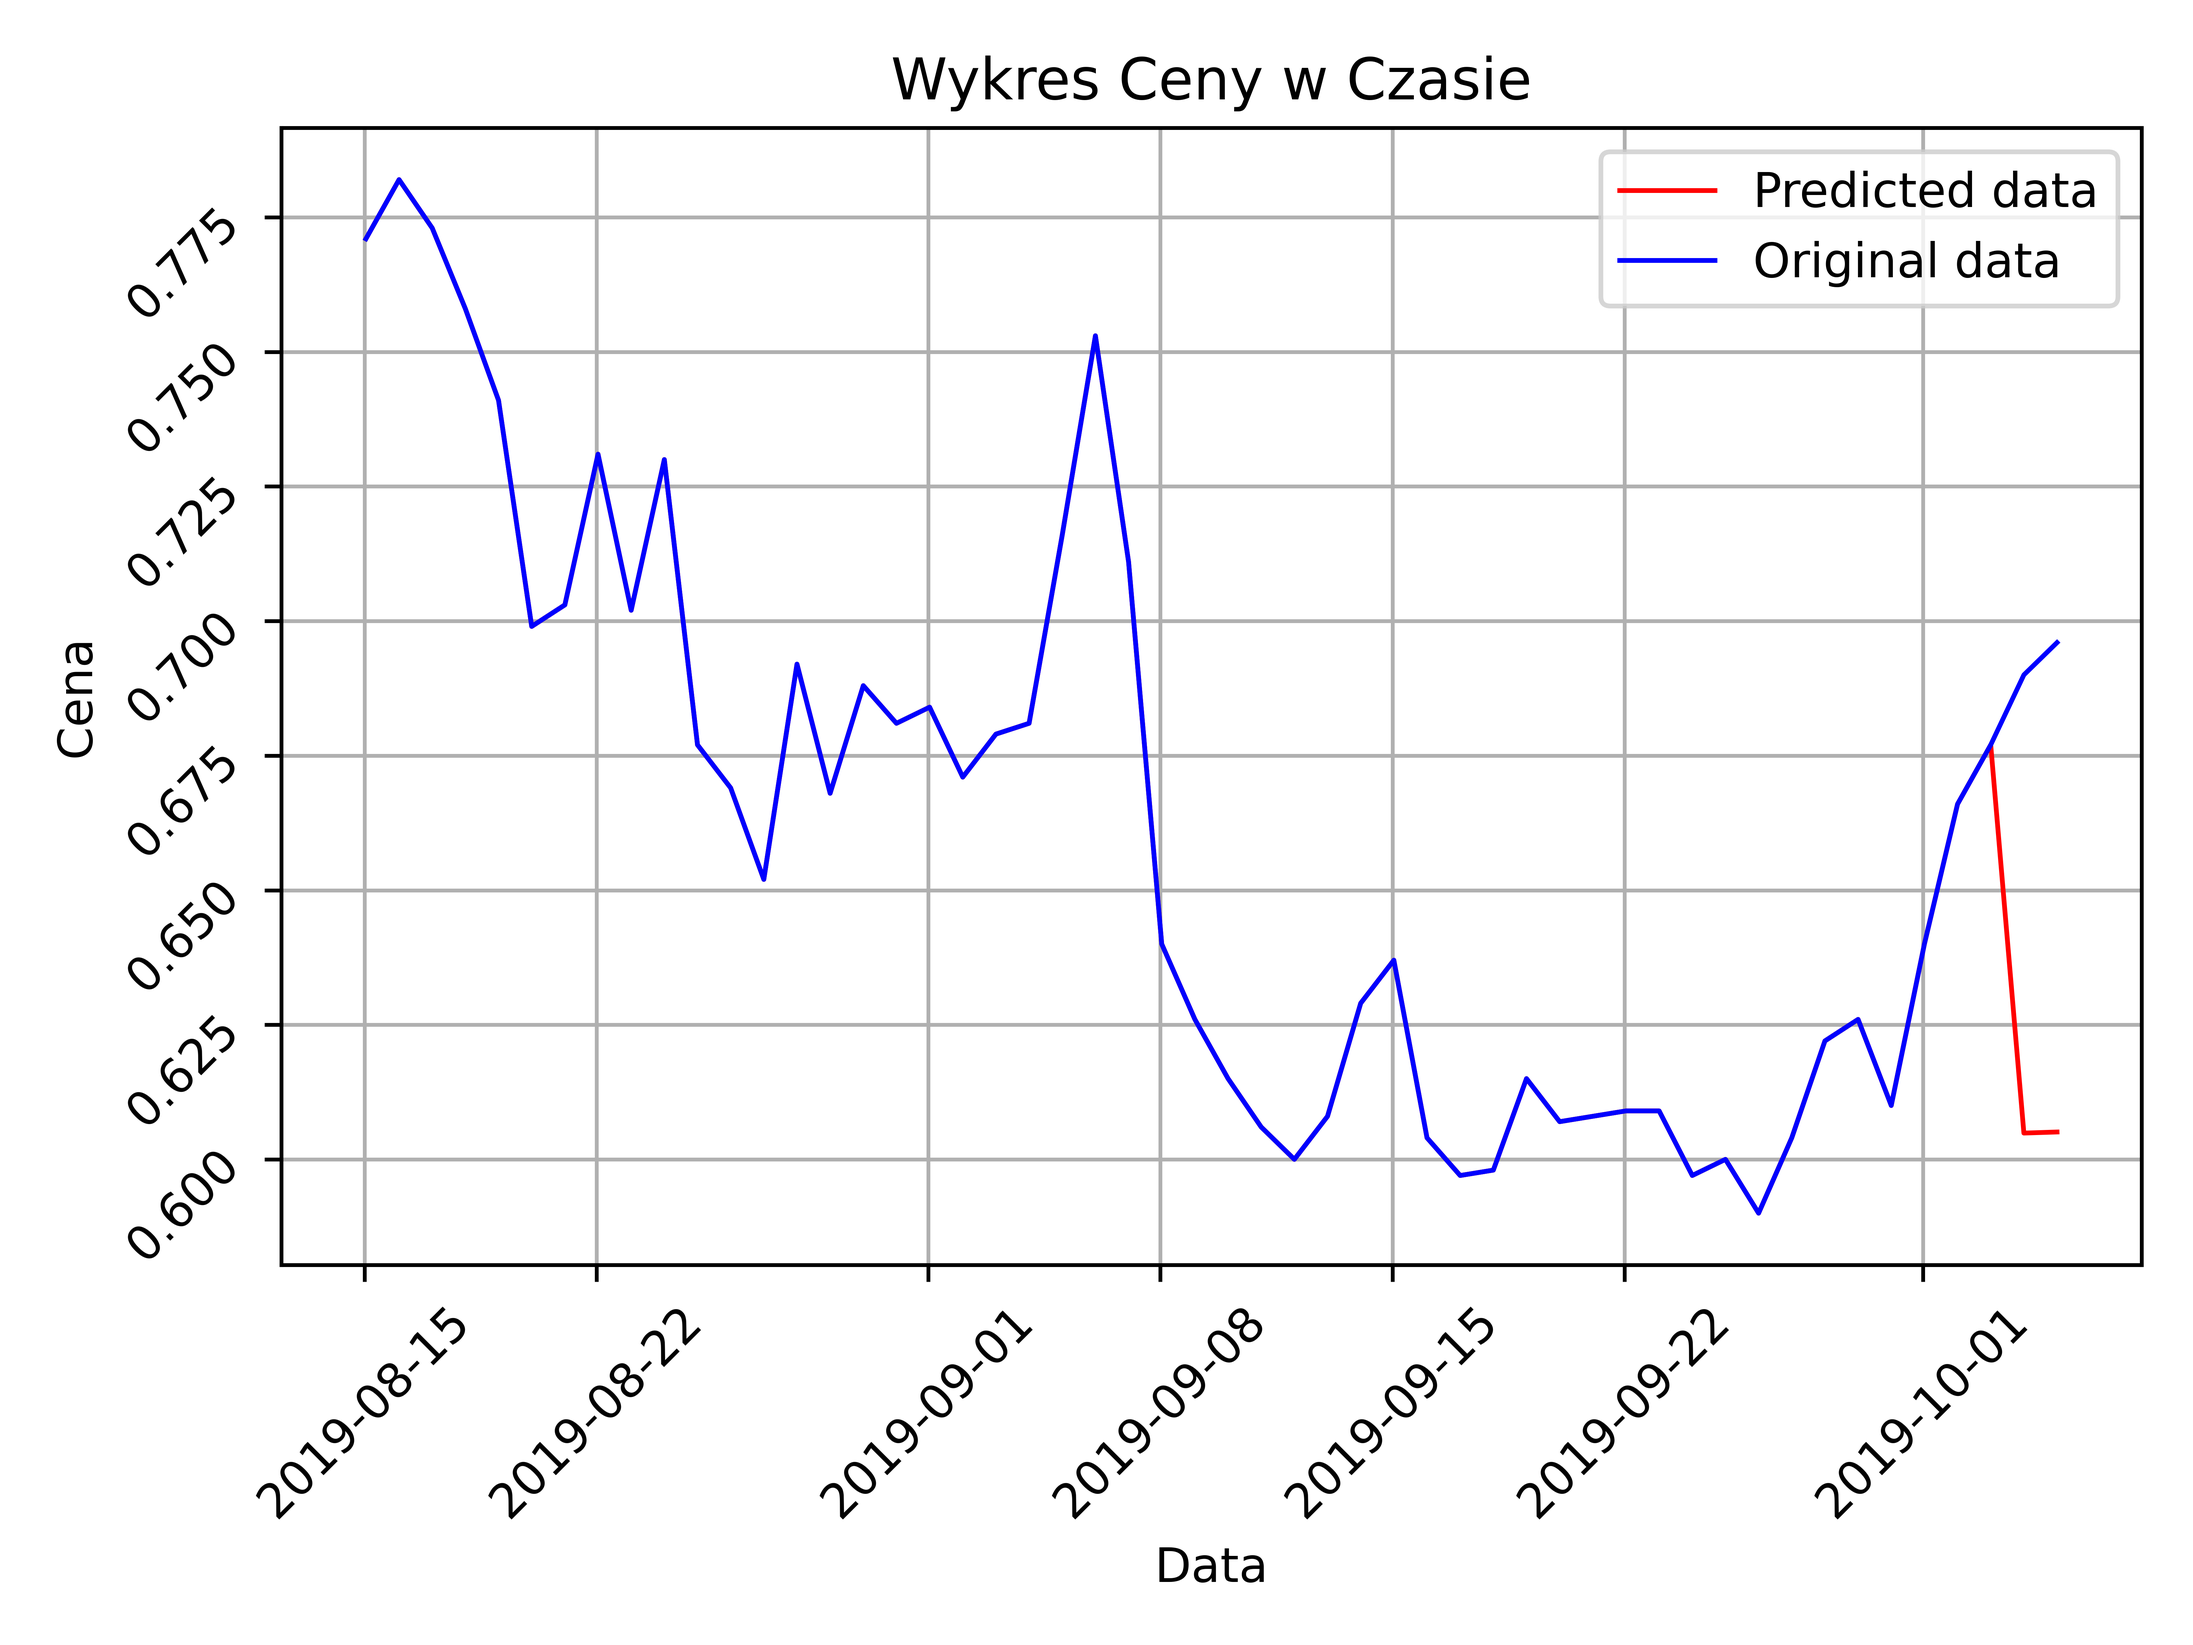
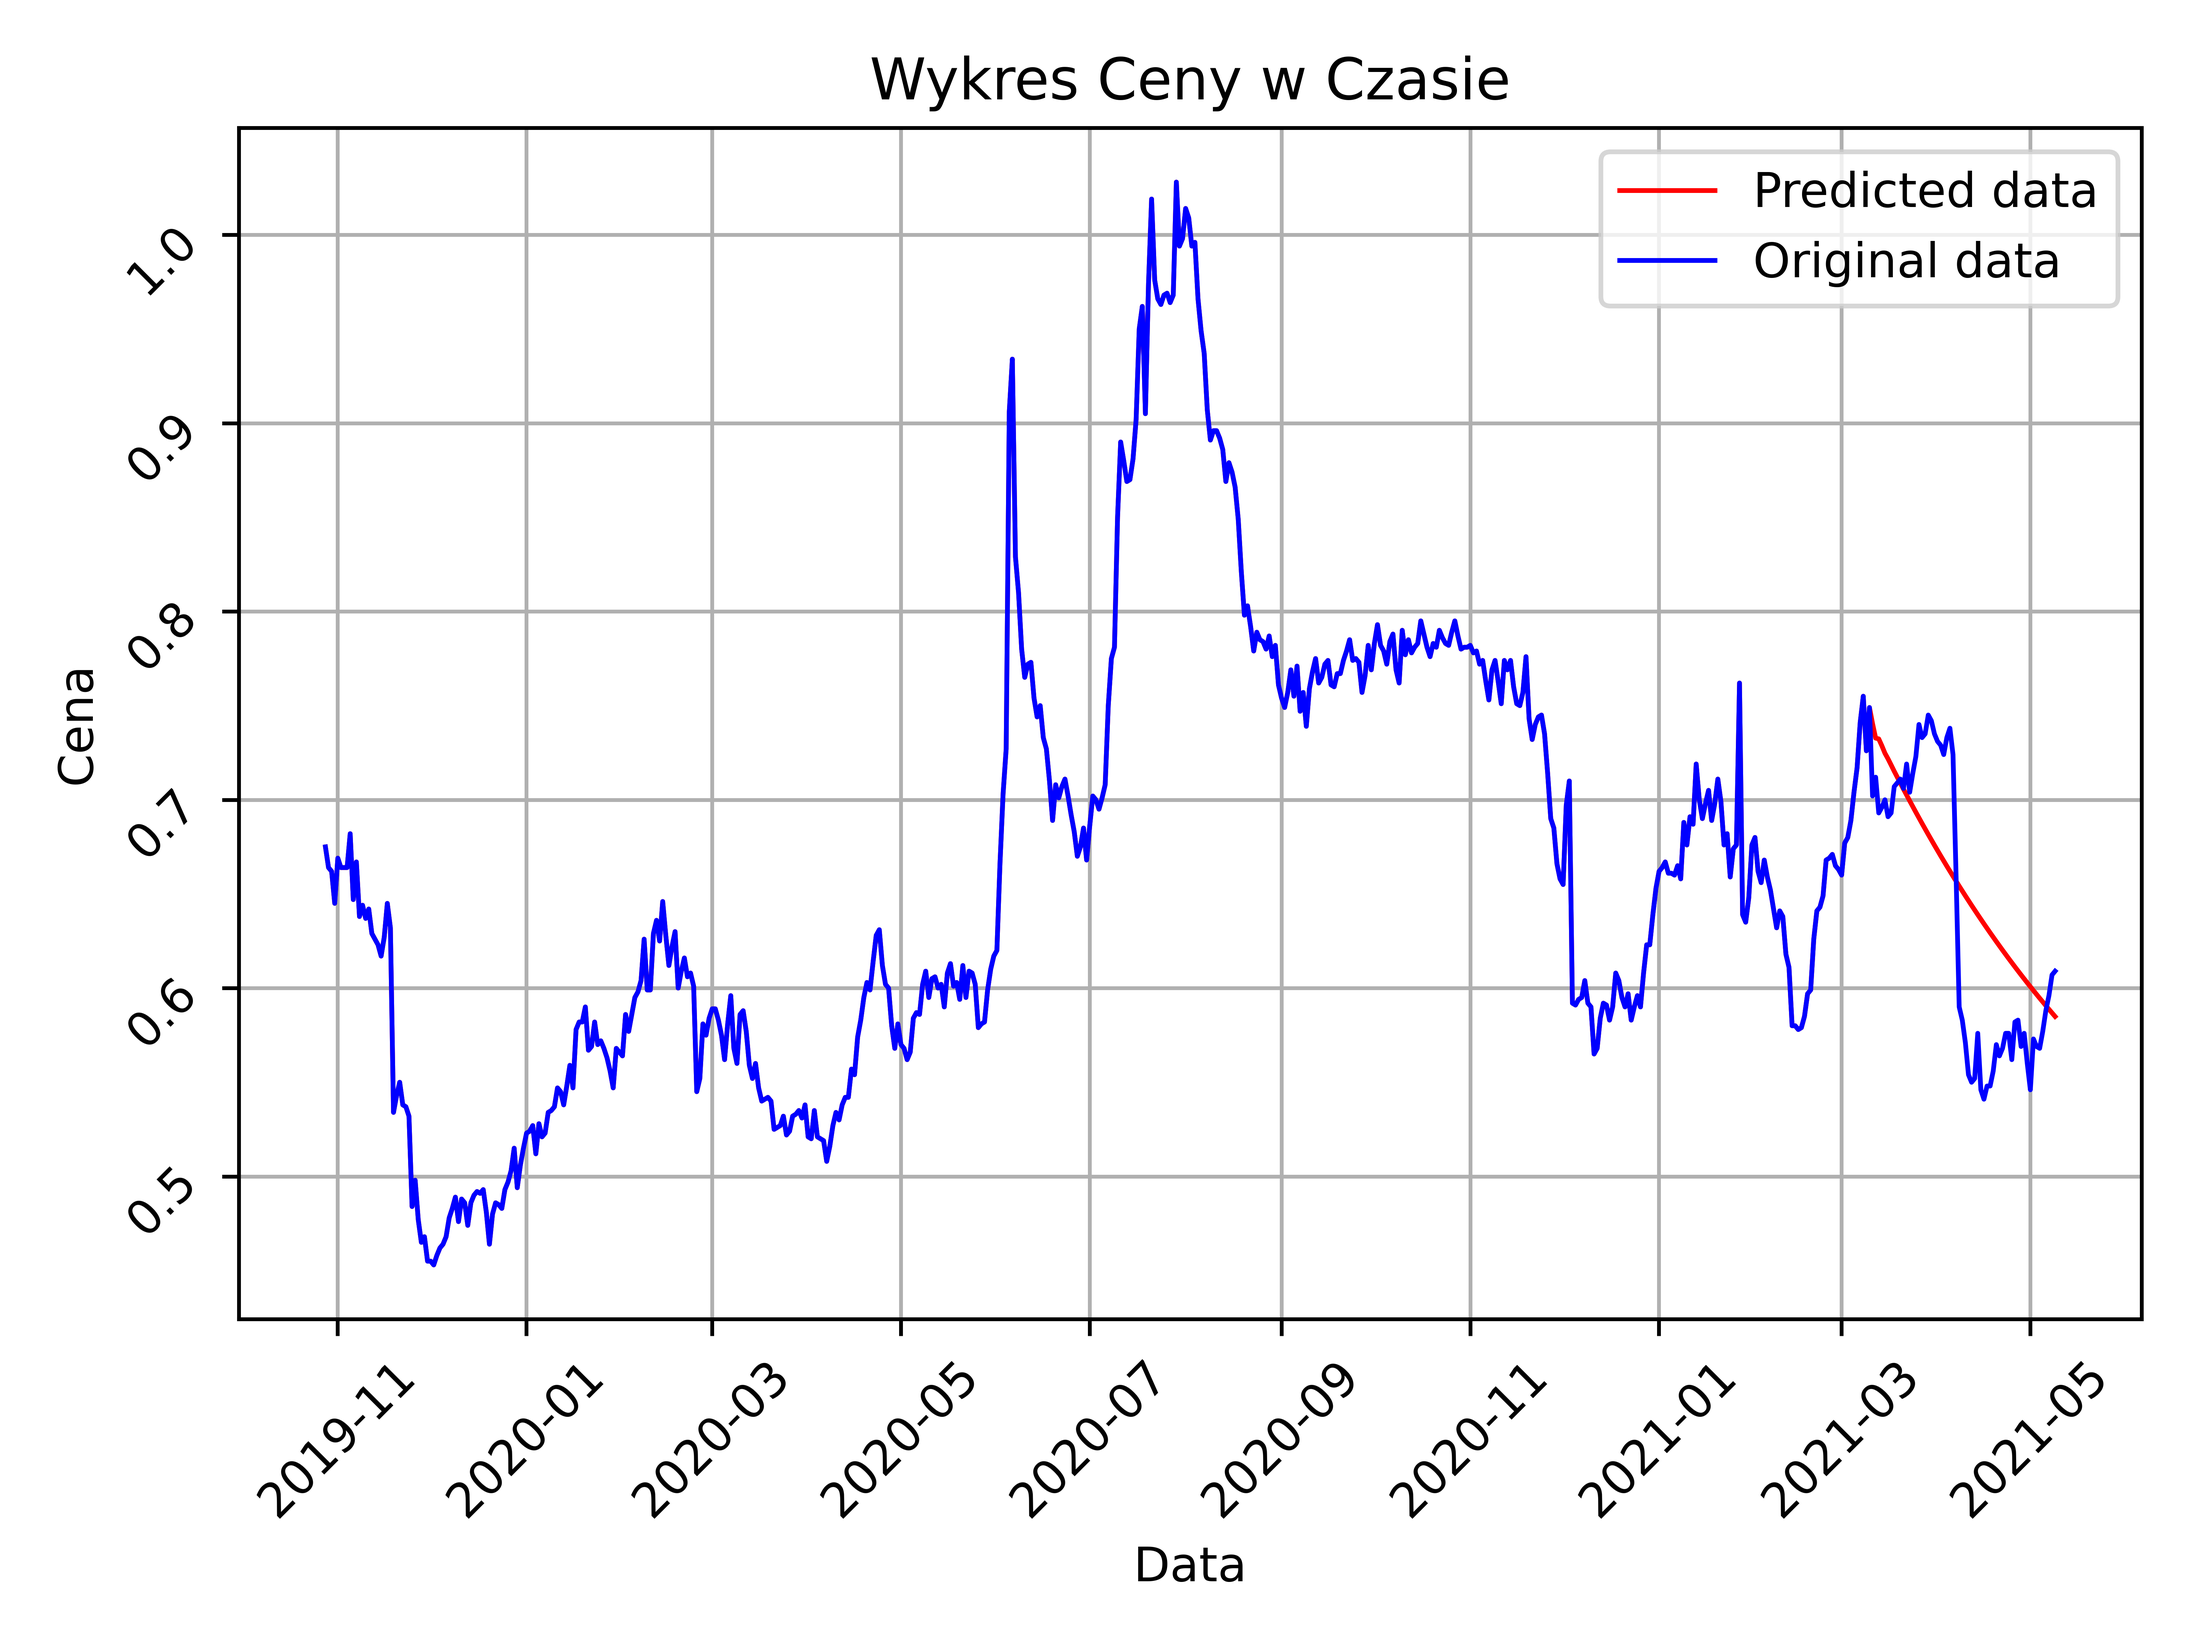
MLPmodel the best results soo far

diff --git a/main.py b/main.py
@@ -23,7 +23,7 @@ file_path = 'output.csv'
 loaded_data = csvController.load_csv_data(file_path)
 
 #       -------------------   defaults --------------------
-number_of_days_to_predict = 10  # optimal = 10
+number_of_days_to_predict = 2  # optimal = 10
 subset_size = 500
 thresholding_value = 0.01
 total_accuracy = 0
@@ -70,8 +70,8 @@ for i in range(rounds_of_training):
 
     #       -------------------   MLPModel--------------------
     mlpmodel = MLPModel.MLPModel()
-    first_input = mlpmodel.train(mas, changes, rsis, prices)
-    predicted_prices = mlpmodel.predict_for_days(first_input, number_of_days_to_predict, prices, min_price_value, max_price_value)
+    first_input = mlpmodel.train(norm_prices)
+    predicted_prices = mlpmodel.predict_for_days(first_input, number_of_days_to_predict, norm_prices, min_price_value, max_price_value)
     predicted_prices = np.array(predicted_prices)
     predicted_with_origin = np.concatenate((origin_prices[:subset_size], predicted_prices))
     merged = helper.merge_data(origin_dates, predicted_with_origin)
@@ -89,8 +89,7 @@ print(f"Czas testowania sieci: {hms_time}")
 
 print(len(all_accuracies))
 for i in range(len(all_accuracies)):
-    if all_accuracies[i] != 1.0:
-        total_accuracy += all_accuracies[i]
+    total_accuracy += all_accuracies[i]
 total_accuracy /= len(all_accuracies)
 
 print("Total accuracy", total_accuracy)

diff --git a/MLPModel.py b/MLPModel.py
@@ -11,10 +11,10 @@ class MLPModel:
     def __init__(self):
         # Standardize the data
         self.scaler = StandardScaler()
-        self.mlp = MLPRegressor(hidden_layer_sizes=(15,), activation='logistic', max_iter=10000, momentum=0.25, learning_rate_init=0.01)
+        self.mlp = MLPRegressor(hidden_layer_sizes=(128, 256, 256, 64), activation='identity', learning_rate='invscaling')
 
-    def train(self, mas, norm_changes, rsis, prices):
-        inputsArray, firstToPredict = helper.prepareInputMLP(mas, norm_changes, rsis)
+    def train(self, prices):
+        inputsArray, firstToPredict = helper.prepareInputMLP(prices)
         outputsArray = helper.prepareOutputMLP(prices)
         # Split the data into training and testing sets
 
@@ -46,6 +46,6 @@ class MLPModel:
         for i in range(days_to_predict):
             output = self.predict_next(first_input, prices)
             prices = np.append(prices, output[1])
-            outputs.append(output[1])
-            first_input = [output[3], output[0], output[2]]
+            outputs.append(helper.denormalize_data(output[1], min_price, max_price))
+            first_input = [prices[-3], prices[-2], prices[-1]]
         return outputs

diff --git a/helper.py b/helper.py
@@ -19,20 +19,18 @@ def cut_first_rows(array, number):
     return array[number:]
 
 
-def prepareInputMLP(array1, array2, array3):
+def prepareInputMLP(prices):
     combined_tab = []
-    for i in range(len(array1) - 1):
-        # Tworzenie wiersza z trzech elementów
-        row = [array1[i], array2[i], array3[i]]
-
-        # Dodawanie wiersza do combined_tab
-        combined_tab.append(row)
-    last_row = [array1[-1], array2[-1], array3[-1]]
+    for i in range(len(prices)):
+        if i > 3:
+            row = [prices[i-3], prices[i-2], prices[i-1]]
+            combined_tab.append(row)
+    last_row = [prices[-3], prices[-2], prices[-1]]
     return combined_tab, last_row
 
 
 def prepareOutputMLP(array):
-    return array[1:]
+    return array[4:]
 
 
 def relu(x):
